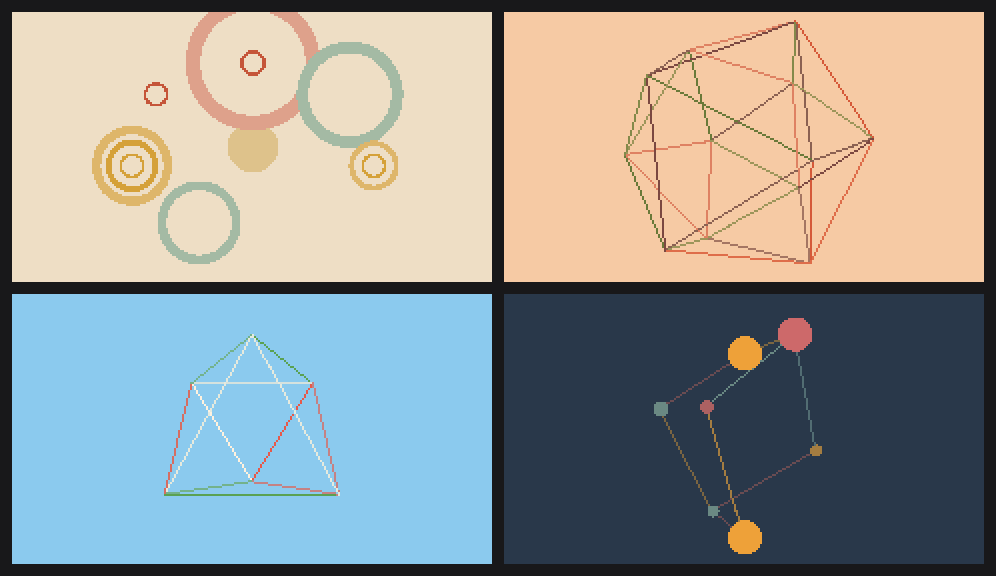
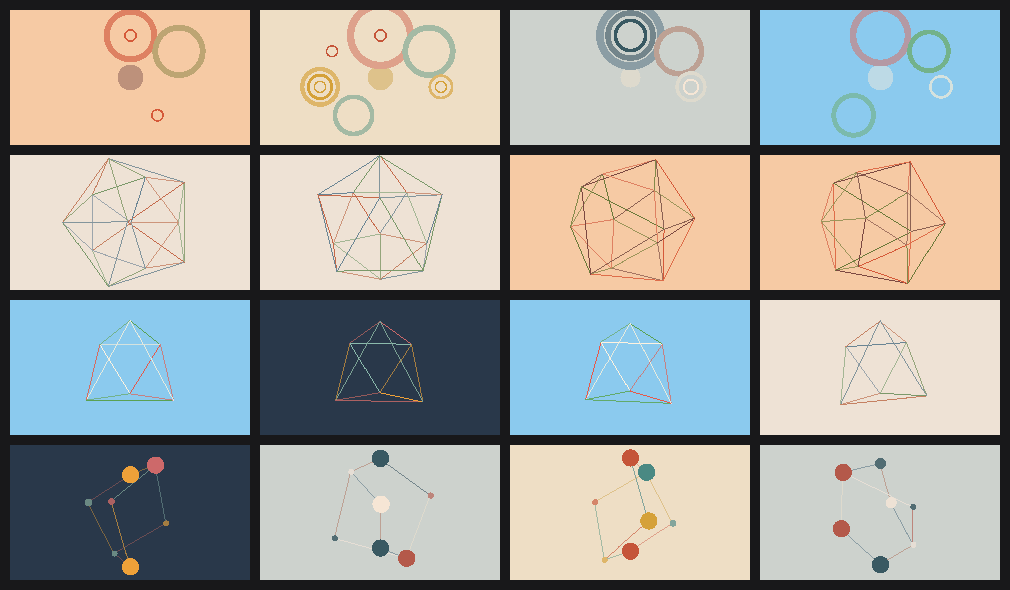
Make the README header image the full 4x4 grid
The header only showed four tiles while the wider grid sat further down the
page, where it was easy to miss. One image now, at the top.

diff --git a/README.md b/README.md
@@ -2,7 +2,7 @@
 
 ![Four of Rill Drums' visual families](docs/visuals.png)
 
-*Rings, wireframe icosahedron, wireframe diamond and Orbit, each reacting to drum hits, on four of the six daylight grounds. Captured at the device's native 240x135 through the same render path the firmware uses.*
+*Four of the visual families, one per row, each on four different seeds: rings, wireframe icosahedron, wireframe diamond and Orbit. The ground changes with the palette, so a family looks like a different object depending on what it's printed on. Captured at the device's native 240x135 through the same render path the firmware uses.*
 
 A generative percussion companion to [Rill](https://github.com/bruceblay/rill), for the **M5Stack StickS3**. Rill Drums composes a slowly evolving, seven-voice drum groove and a reactive visual entirely on the device. Tap for a new kit and pattern. Shake for a different visual.
 
@@ -28,10 +28,6 @@ The data view shows the kit character, activity (sparse, steady or full), genera
 - **Six reactive visuals on daylight grounds:** six palettes, each a coloured ground with three flat inks on it, shared with Rill. Saturated ink on near-black read as neon however the hues were picked; the same drawing on a warm ground reads as printed. Colour lands on one of four fixed steps, and a fainter thing is paler rather than darker, since stepping toward black turns these palettes to mud. The families are hollow rings that radiate outward from each drum hit, a flashing step grid with a moving playhead, a circular/radial version of that same grid with a radar-style sweep, a rotating wireframe icosahedron whose edges flash per voice, a rotating wireframe diamond (octahedron), and Orbit, a seven-node constellation with one node per voice, spread over a sphere and connected to its two nearest neighbors. All three wireframe shapes and their edge/node graphs are found programmatically (shortest pairwise distance) rather than hand-transcribed. Shake cycles through all six.
 - **A short room ambience:** a small comb-and-diffuser send, tuned far shorter than Rill's echo, meant only to glue the seven voices together without smearing the groove.
 - **An always-on dub delay:** a tempo-synced feedback delay with tape-style darkening and a slow pitch wobble on the repeats, sitting under the mix at a modest level all the time rather than only on the punch. The Dub Echo punch throws its feedback, mix, wobble and tap length up temporarily on the same line instead of switching a separate effect on and off.
-
-![The four visual families across several of the daylight grounds](docs/palettes.png)
-
-*The same four families again, one per row, each on a different seed: rings, icosahedron, diamond and Orbit. The ground changes with the palette, so a family looks like a different object depending on what it's printed on.*
 
 Grooves are not saved across restarts. Device-to-device ensemble sync, so a Rill Drums unit could hold a shared tempo and role alongside Rill itself, follows the same unimplemented [design proposal](https://github.com/bruceblay/rill/blob/main/SYNC-DESIGN.md) as Rill; nothing here talks to another device yet.
 
